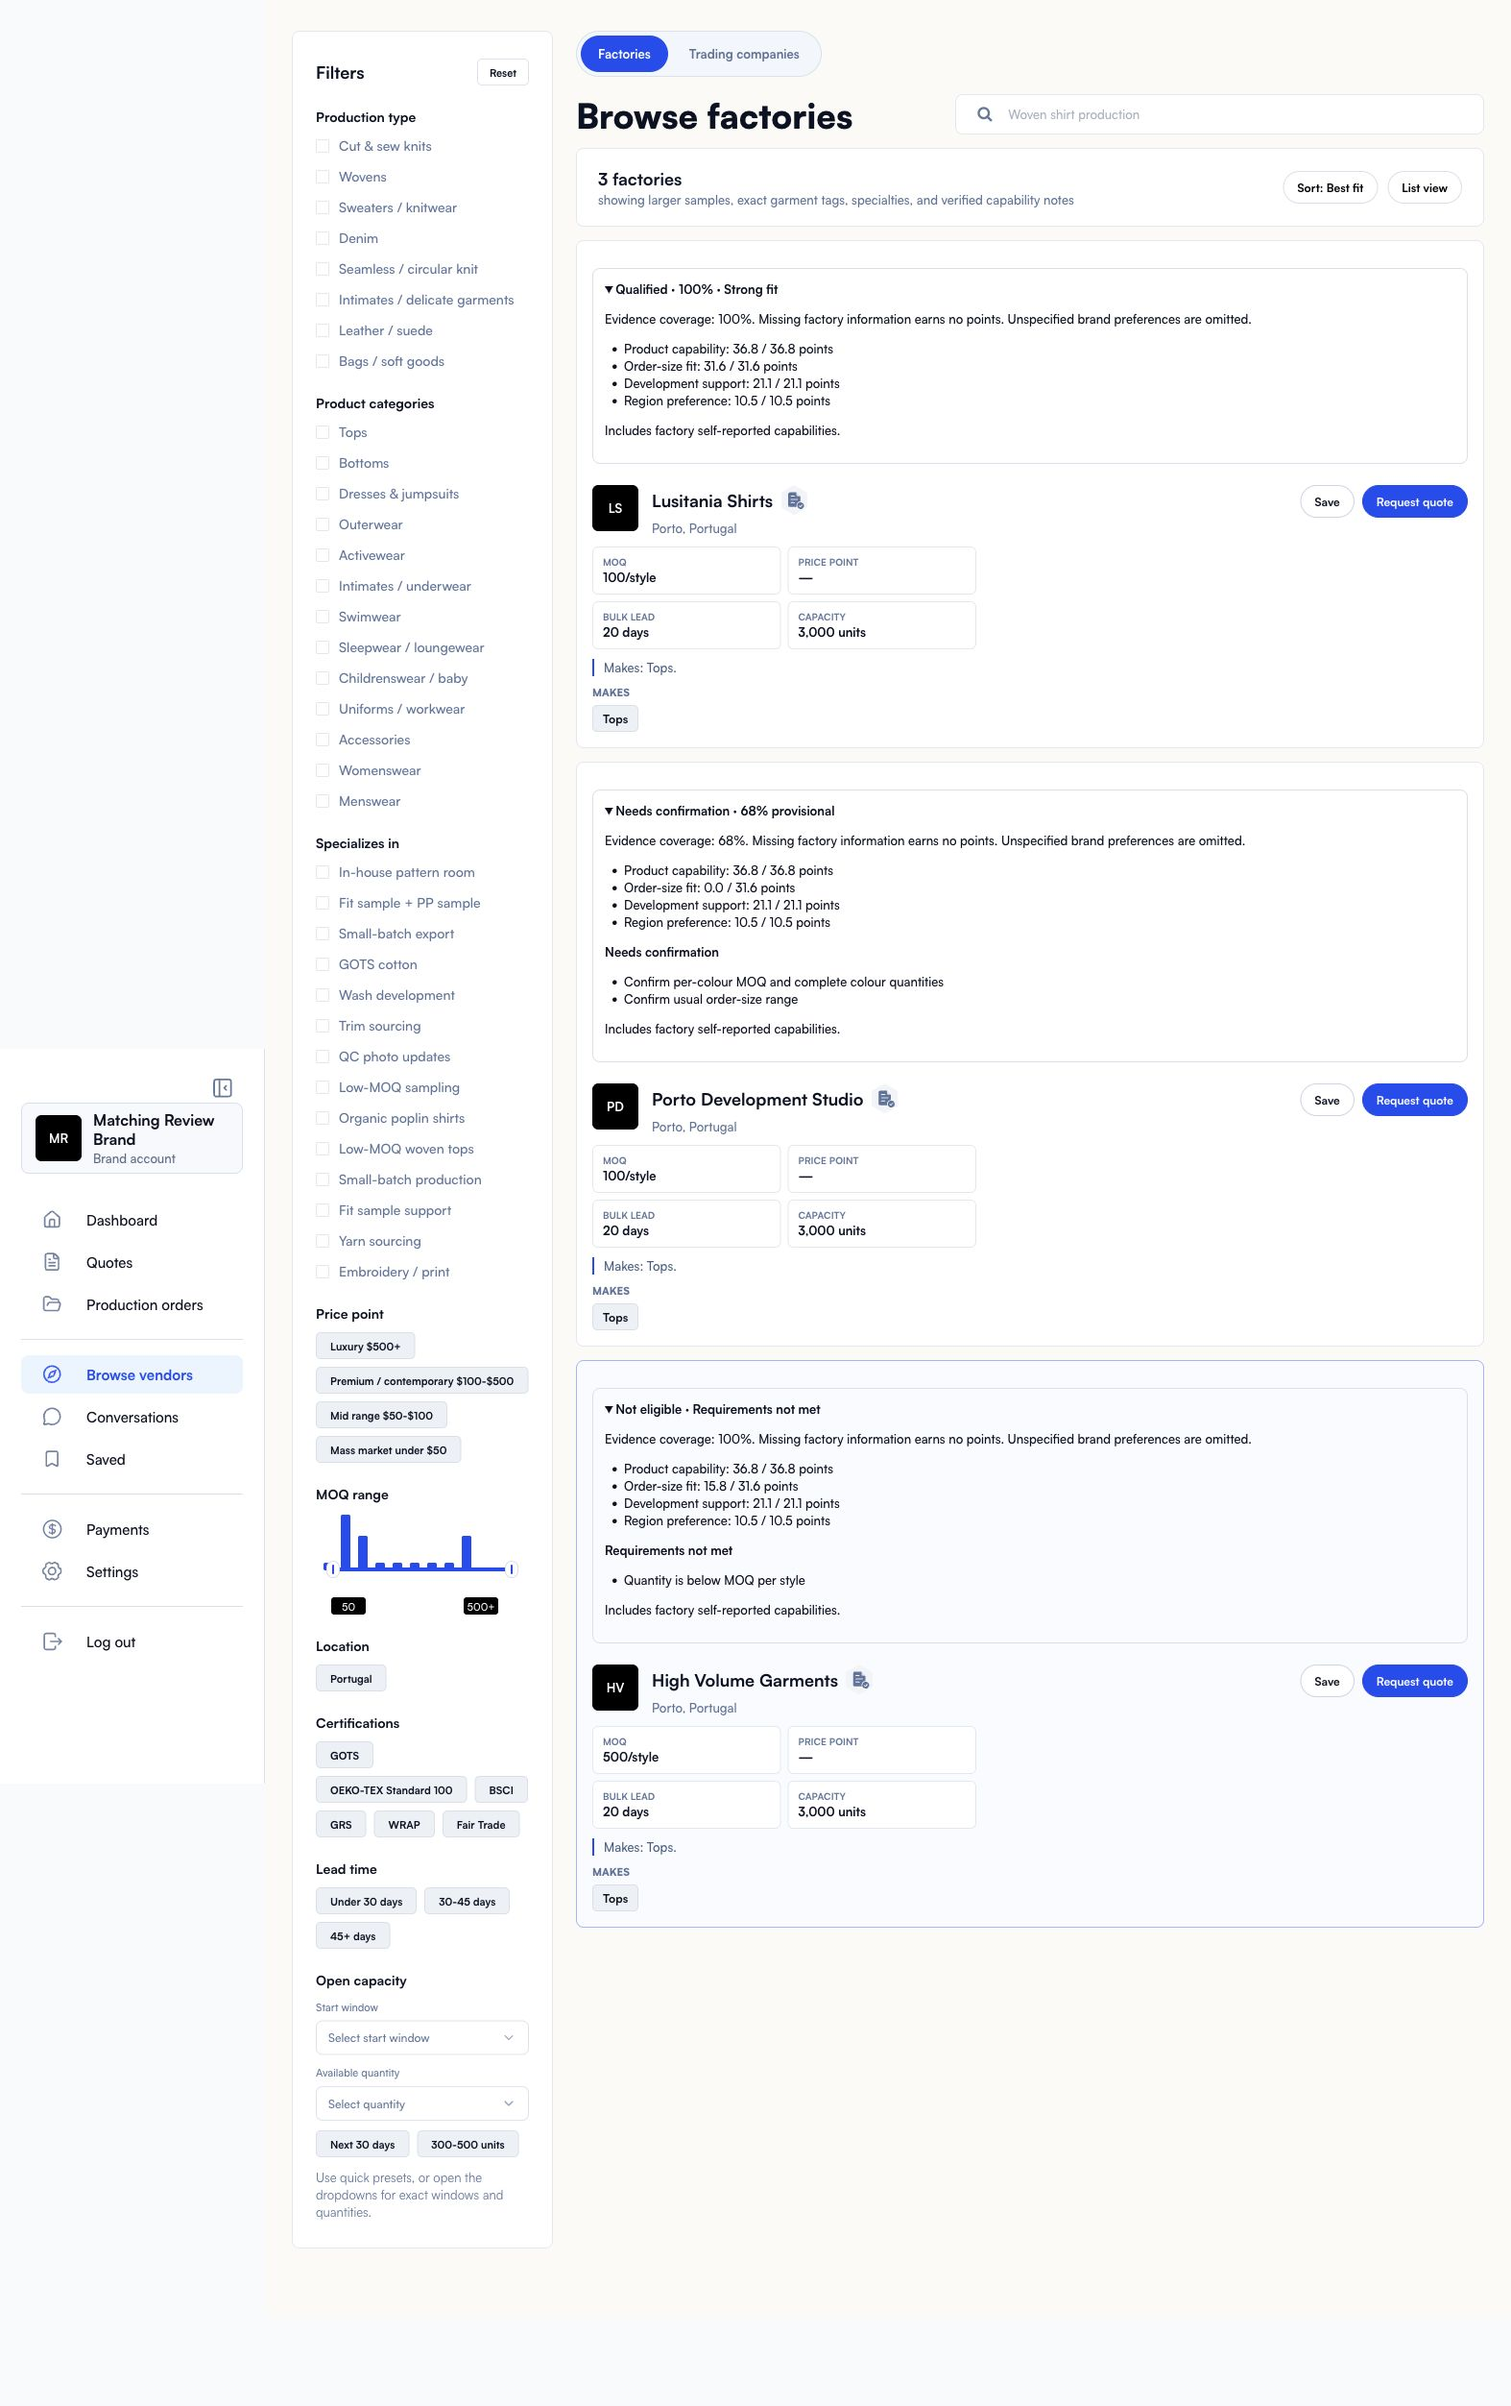
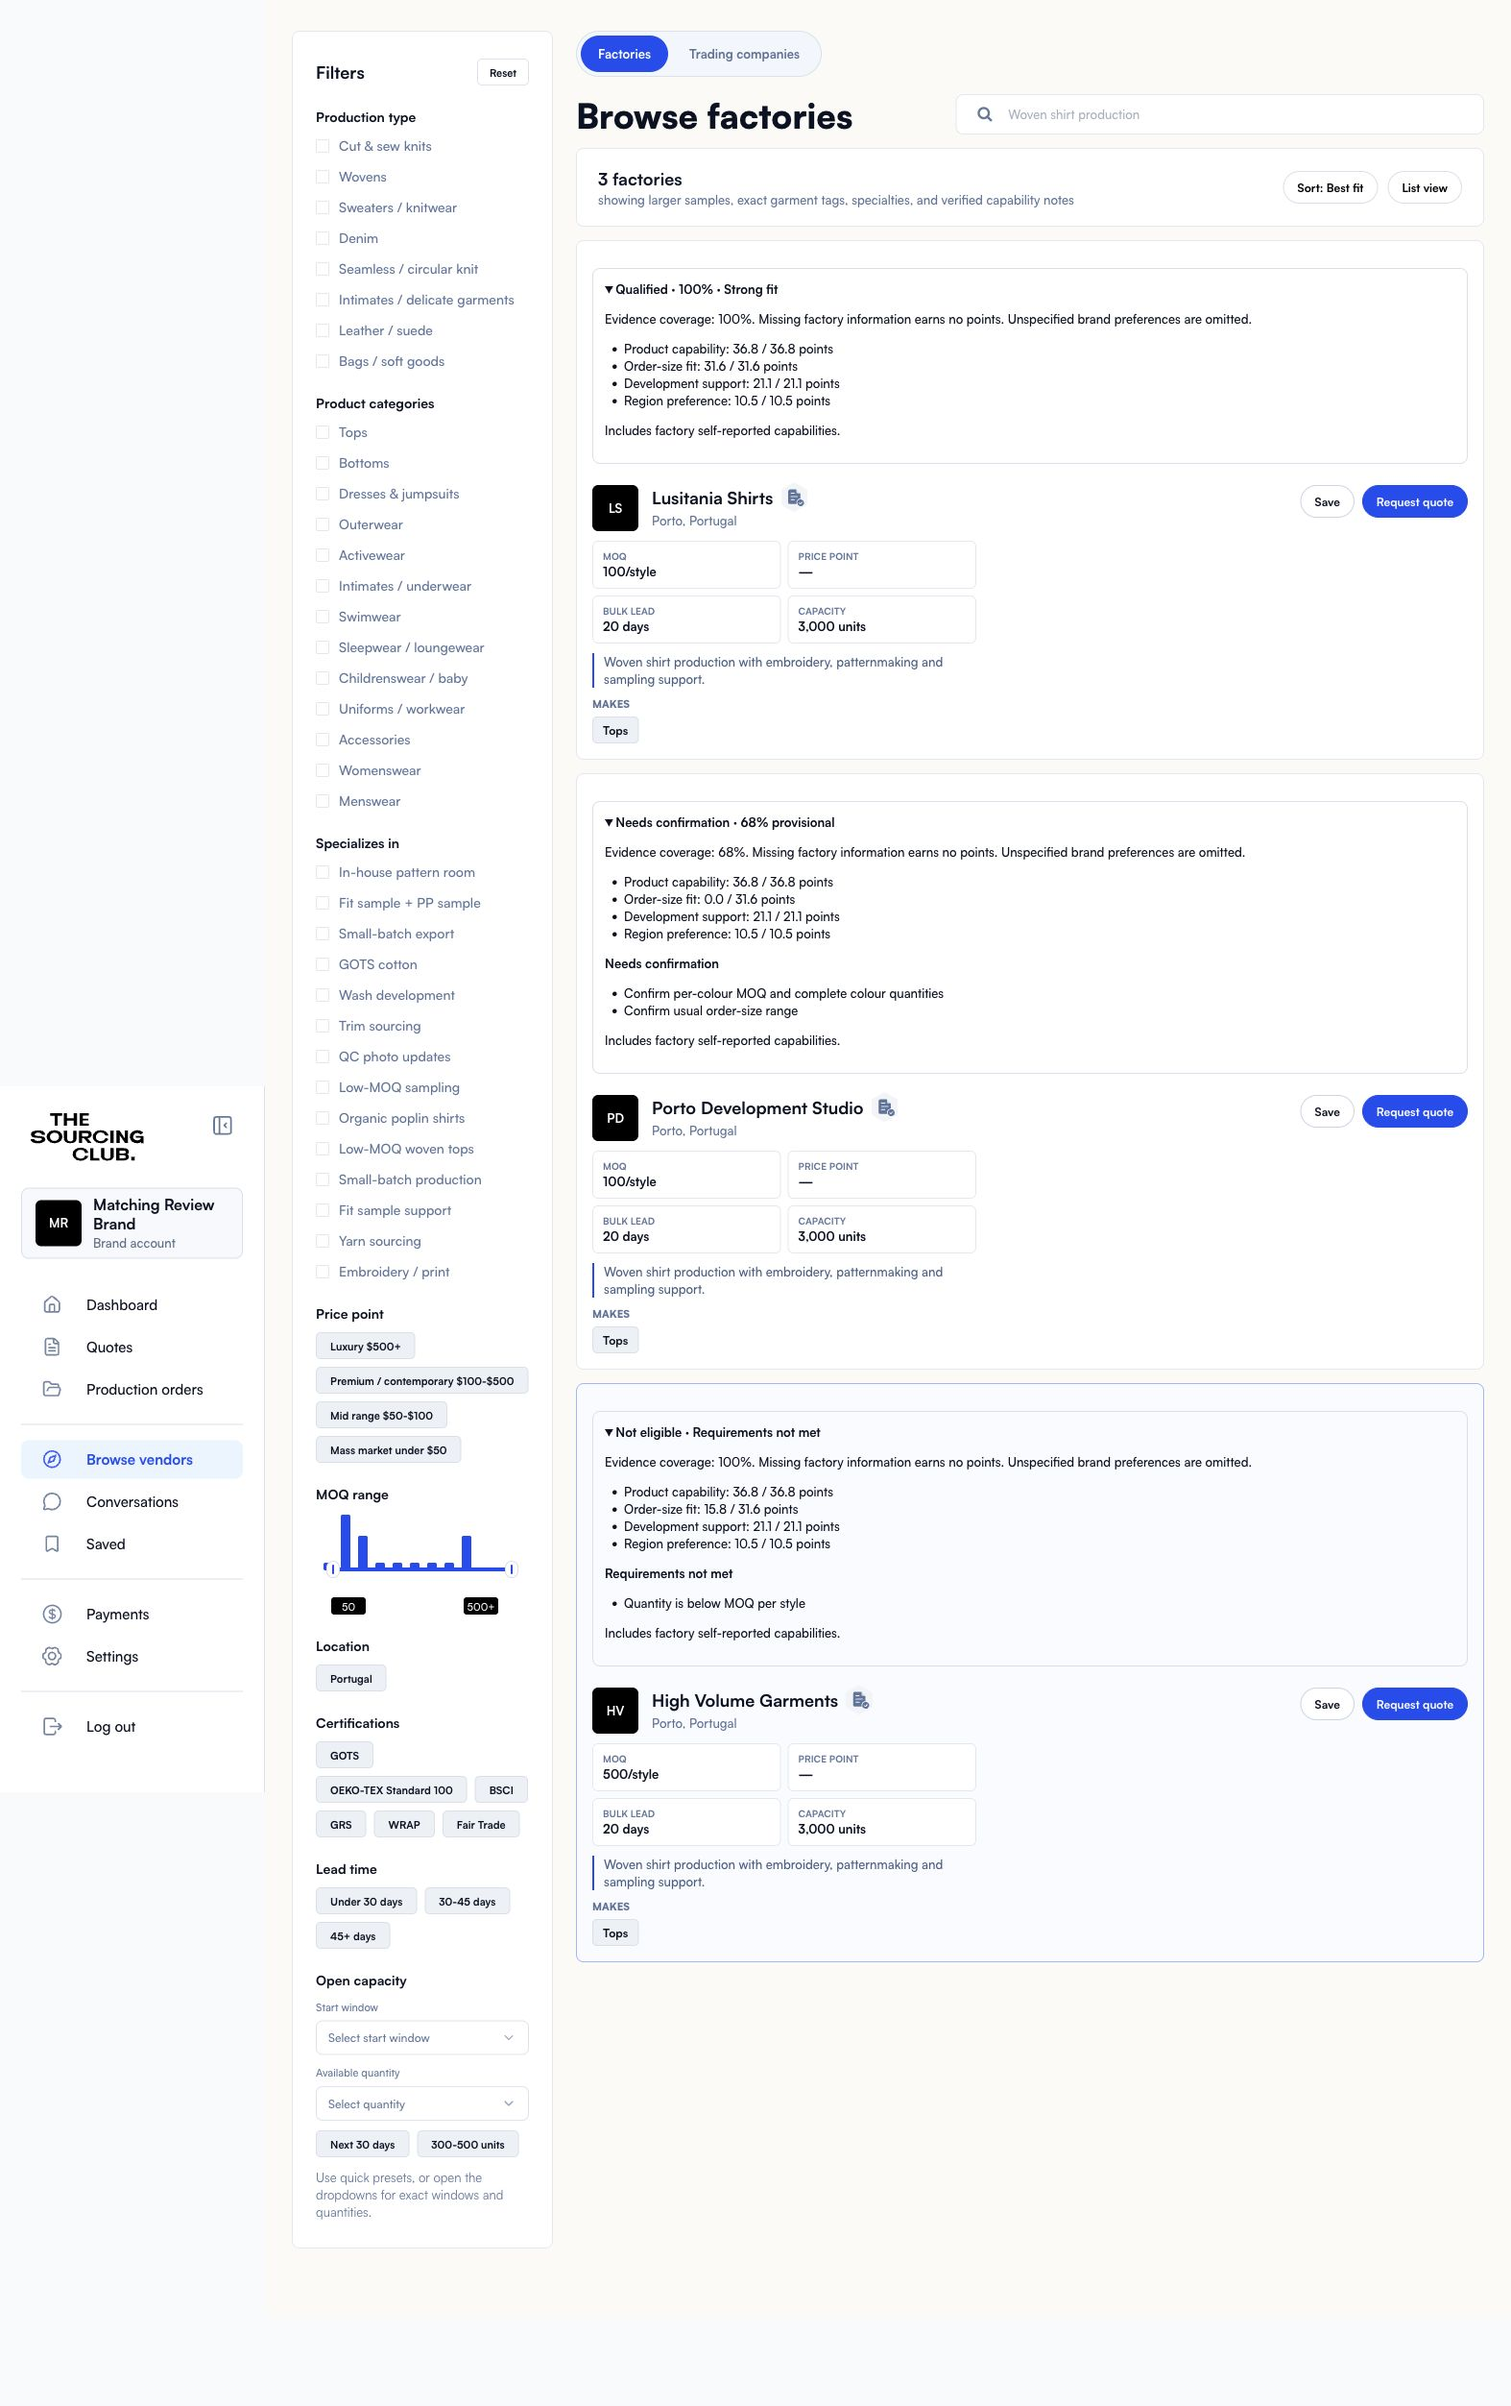
Harden evidence compatibility and preserve current vendor discovery rules

diff --git a/src/app/rfq/LiveComposer.jsx b/src/app/rfq/LiveComposer.jsx
@@ -1,4 +1,4 @@
-import MatchingProfile, { useMatchingEnabled } from "../matching/MatchingProfile.jsx";
+import MatchingProfile, { useMatchingStatus } from "../matching/MatchingProfile.jsx";
 import FactoryMatch from "../matching/FactoryMatch.jsx";
 import { assessFactories, compareMatches } from "../../lib/domain/matching.js";
 /**
@@ -189,7 +189,8 @@ export default function LiveComposer({ org, rfqId }) {
   const [openToAll, setOpenToAll] = useState(true);
   // Who the request actually went to, for the success card's copy.
   const [invited, setInvited] = useState([]);
-  const matchingV2 = useMatchingEnabled();
+  const matchingStatus = useMatchingStatus();
+  const matchingV2 = matchingStatus === true;
   const [matchingDirty, setMatchingDirty] = useState(false);
   const [matchingAcknowledged, setMatchingAcknowledged] = useState(false);
   const [files, setFiles] = useState([]);
@@ -268,11 +269,11 @@ export default function LiveComposer({ org, rfqId }) {
   }, [rfqId, kinds]);
 
   useEffect(() => {
-    if (!resumeLoaded || inviteEntryHandled.current || !window.location.pathname.endsWith("/invite")) return;
+    if (!resumeLoaded || matchingStatus === null || inviteEntryHandled.current || !window.location.pathname.endsWith("/invite")) return;
     inviteEntryHandled.current = true;
     // Returning from quotes only loads vendors; it must not rewrite the brief.
     toInvite({ skipSave: true });
-  }, [resumeLoaded]);
+  }, [resumeLoaded, matchingStatus]);
 
   // The category, certifications and regions are matched against the term
   // labels, which load on their own and may arrive after a resumed draft does.
@@ -483,6 +484,7 @@ export default function LiveComposer({ org, rfqId }) {
    * visibility for the brand and then asking them about it.
    */
   async function toInvite({ skipSave = false } = {}) {
+    if (matchingStatus === null) return;
     if (busy || saveState === "saving" || !draftId) return;
     setBusy(true);
     setSaveState("saving");
@@ -725,7 +727,7 @@ export default function LiveComposer({ org, rfqId }) {
       busy={busy}
       onBack={() => setStep("describe")}
       onNext={toInvite}
-      primaryDisabled={saveState === "saving"}
+      primaryDisabled={saveState === "saving" || matchingStatus === null}
       secondaryAction={{
         label: saveState === "saving" ? "Saving…" : saveState === "saved" ? "Saved" : "Save changes",
         onClick: saveReview,

diff --git a/src/app/profile/load-profile.js b/src/app/profile/load-profile.js
@@ -152,8 +152,10 @@ export async function loadRecommendedVendors(brandOrgId, limit = 3) {
   const [rows, brandTerms] = await Promise.all([
     supabase
       .from("factory_profiles")
-      .select("org_id, location, moq, typical_lead_days, verification_status, trust_tier, intro, vendor_kind, published_at, orgs (name)")
+      .select("org_id, location, moq, typical_lead_days, verification_status, trust_tier, intro, vendor_kind, published_at, orgs!inner (name)")
       .not("published_at", "is", null)
+      .eq("verification_status", "verified")
+      .eq("orgs.is_demo", false)
       .then((result) => unwrap(result, "load recommended vendors")),
     getSelectedTerms("brand_profile", brandOrgId),
   ]);

diff --git a/src/app/matching/MatchingProfile.jsx b/src/app/matching/MatchingProfile.jsx
@@ -8,8 +8,8 @@ import {
   saveMatchingProfile,
 } from "../../lib/domain/matching.js";
 import "./matching.css";
-export function useMatchingEnabled() {
-  const [enabled, setEnabled] = useState(false);
+export function useMatchingStatus() {
+  const [enabled, setEnabled] = useState(null);
   useEffect(() => {
     let live = true;
     matchingEnabled().then((x) => live && setEnabled(x));
@@ -19,6 +19,10 @@ export function useMatchingEnabled() {
   }, []);
   return enabled;
 }
+export function useMatchingEnabled() {
+  return useMatchingStatus() === true;
+}
+
 const TITLES = {
   product_category: "Product categories",
   fabric: "Fabrics",

diff --git a/docs/explainable-matching.md b/docs/explainable-matching.md
@@ -19,9 +19,9 @@ Production enablement is a separate release decision after migration checks, pre
 - `factory_match_v2(subject_type, subject_id, factory_org)` returns `version`, `status` (`qualified`, `needs_confirmation`, `excluded`), percentage `score`, evidence/data `coverage`, factor contributions, missing/failed reasons, capability evidence status and the estimated-timeline marker.
 - `factory_matches_v2(subject_type, subject_id, factory_orgs)` batches at most 100 factories. Clients chunk larger directories. Reads remain subject to RLS; another brand’s private preferences or inaccessible RFQ return no assessment.
 - `save_matching_profile(subject_type, subject_id, selections, details)` saves only matching groups atomically. Existing unrelated taxonomy groups remain untouched. Legacy profile selections are preserved and are not guessed into the new fabric/technique/service vocabulary.
-- `review_matching_evidence(evidence_type, evidence_id, decision, note)` is staff-only. Certificate metadata must include validity, named facility, country and applicable scope before approval. Company verification and credit ledger entries are never changed by this RPC.
+- `review_matching_evidence(evidence_type, evidence_id, decision, note)` is staff-only. Certificate metadata must include validity, named facility, country and applicable scope before approval. Company verification and credit ledger entries are never changed by this RPC. The legacy document-review function also receives a qualified-column fix for its pre-existing ambiguous certificate join.
 - Existing `match_score` and `match_score_rfq` signatures and 0–1 scale remain available. When enabled, ineligible matches return null. The brand-profile wrapper reads saved matching quantities/deadlines; the legacy quantity/month arguments apply only while the flag is off.
-- Required category, MOQ, deadline, certification and location failures exclude matching recommendations/invitation candidates. Unknowns remain provisional. Directory search continues to show published profiles, including explanations for an unsuitable match.
+- Required category, MOQ, deadline, certification and location failures exclude matching recommendations/invitation candidates. Unknowns remain provisional. Directory search retains the current main restriction to verified, non-demo published profiles, including explanations for an unsuitable match. Dashboard recommendations use the same verified/non-demo restriction.
 - Invitation inserts/identity changes are reassessed in SQL. `matching_acknowledged=true` is required for provisional invitations and cannot override an exclusion. Existing invitations are not removed when a profile changes.
 - RFQ automatic matching notifications require a qualified assessment while v2 is enabled. Provisional and excluded factories do not receive strong-match recommendations.
 
@@ -36,9 +36,9 @@ Timeline estimates combine sample/bulk lead times and conservatively available c
 Local stack: isolated `TSCMatchingReview`, API port 55321. No production data is seeded or reset.
 
 - Clean migration application succeeds.
-- 68 new pgTAP assertions pass, including exact weights, partial information, MOQ per colour, usual order ranges, delivered/sample deadlines, full capacity, certificate scope/expiry/facility, staff-only approval, approval invalidation, storage replacement, private document access, atomic profile saves, invitation acknowledgement, batch limits and flag-off compatibility.
-- `npm run build` and `npm run check:prototype` pass.
-- Full database suite: 977 assertions; the same 12 pre-existing failures remain in admin access (10,12,13), legal documents (6,7,11), message access (13,14), order access (17,18), and order interior (19,22). These are not represented as passing. The previously captured clean-main result contains the same failure set.
+- 69 new pgTAP assertions pass, including exact weights, partial information, MOQ per colour, usual order ranges, delivered/sample deadlines, full capacity, certificate scope/expiry/facility, staff-only approval, approval invalidation, storage replacement, private document access, atomic profile saves, invitation acknowledgement, batch limits and flag-off compatibility.
+- `npm run build`, `npm run check:prototype`, SQL lint and the newly merged quote-text field tests pass.
+- Full database suite: 991 assertions, including the latest main contract-attachment tests; the same 12 pre-existing failures remain in admin access (10,12,13), legal documents (6,7,11), message access (13,14), order access (17,18), and order interior (19,22). These are not represented as passing. The previously captured clean-main result contains the same failure set.
 - Browser: authenticated brand directory shows a qualified 100% match, a 68% provisional match with missing MOQ/range information, and a factory excluded for per-style MOQ. The deadline-specific RFQ changes the provisional percentage to 74%, keeps the qualified factory at 100%, and excludes the unsuitable invitation candidate. Native date inputs save and resume. Inviting a provisional factory is blocked until acknowledgement; the successful local invitation persists `matching_acknowledged=true`.
 
 ![Qualified, provisional and excluded matches](matching-evidence/qualified-provisional-excluded.jpg)
